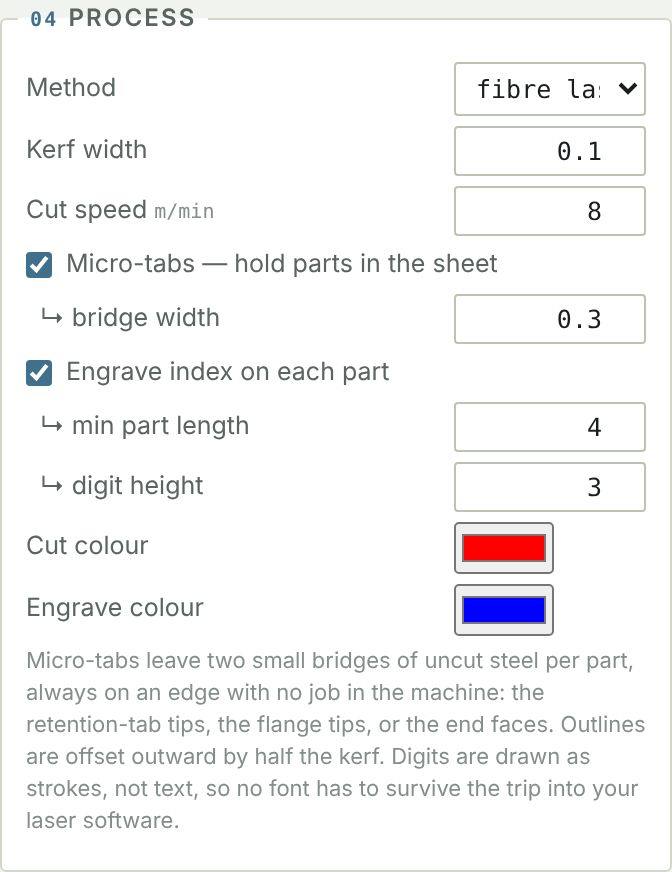
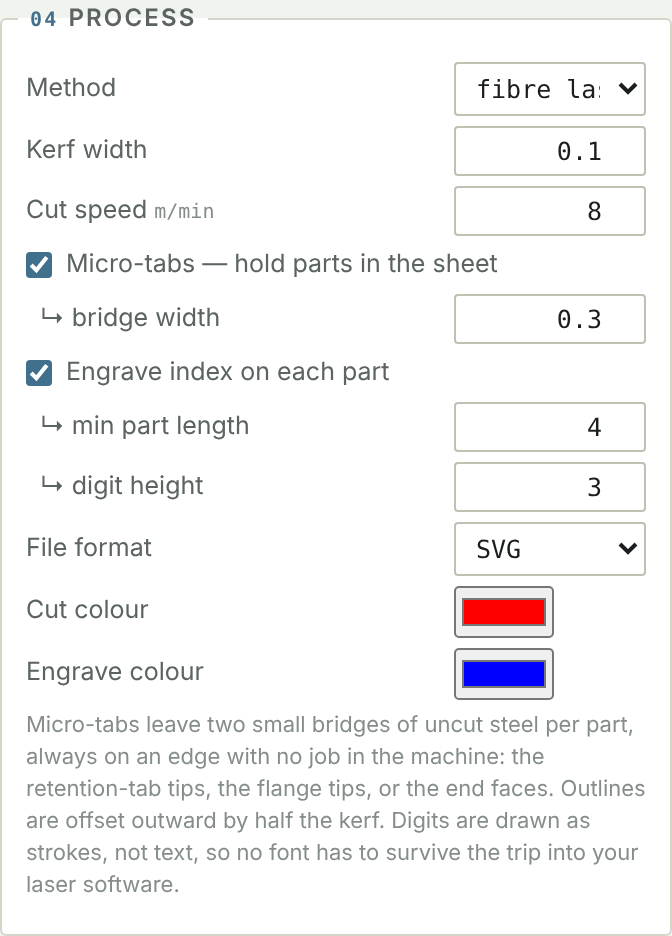
dxf option and share link option added

diff --git a/lamination-cutter/index.html b/lamination-cutter/index.html
@@ -281,9 +281,11 @@ table.parts tr:nth-child(even) td{background:var(--sunk)}
       <select id="fileSel"></select>
       <span class="meta" id="meta"></span>
       <span class="spacer"></span>
+      <button type="button" class="act" id="btnShare" title="Copy a link that opens the tool with these settings">Share link</button>
       <button type="button" class="act" id="btnCsv">Parts list</button>
       <button type="button" class="act" id="btnAll" hidden>All · zip</button>
       <button type="button" class="act" id="btnFrame" hidden>Frame · zip</button>
+      <button type="button" class="act" id="btnDxf">Download DXF</button>
       <button type="button" class="act pri" id="btnSave">Download SVG</button>
     </div>
     <div class="scroll"><table class="parts" id="ptable"></table></div>
@@ -624,6 +626,81 @@ ${eng.map(s=>'    '+s).join('\n')}
 </svg>
 `;
 }
+/* ---- laser DXF: the same outlines as the SVG, fillets as true arcs (polyline bulges),
+        micro-tab gaps as breaks, digits as lines. Y is flipped so the DXF reads y-up. ---- */
+function dxfRuns(pts,r,edges,gap){
+  const n=pts.length, C=[];
+  for(let i=0;i<n;i++){
+    const p0=pts[(i-1+n)%n], p1=pts[i], p2=pts[(i+1)%n];
+    let ux=p1[0]-p0[0], uy=p1[1]-p0[1]; const lu=Math.hypot(ux,uy)||1; ux/=lu; uy/=lu;
+    let vx=p2[0]-p1[0], vy=p2[1]-p1[1]; const lv=Math.hypot(vx,vy)||1; vx/=lv; vy/=lv;
+    const cr=ux*vy-uy*vx, turn=Math.atan2(cr,ux*vx+uy*vy);
+    if(Math.abs(turn)<1e-6||r<=0){ C.push({S:p1,E:p1,b:0}); continue; }
+    let rr=r, d=rr*Math.tan(Math.abs(turn)/2);
+    const dmax=Math.min(lu,lv)*0.49;
+    if(d>dmax) d=dmax;
+    C.push({S:[p1[0]-ux*d,p1[1]-uy*d], E:[p1[0]+vx*d,p1[1]+vy*d], b:Math.sign(cr)*Math.tan(Math.abs(turn)/4)});
+  }
+  // vertex stream round the loop; a bulge belongs to the segment leaving its vertex
+  const V=[];
+  for(let i=0;i<n;i++){
+    const c=C[i], nx=C[(i+1)%n];
+    if(c.b) V.push({x:c.S[0],y:c.S[1],b:c.b});
+    V.push({x:c.E[0],y:c.E[1],b:0,edge:i,to:nx.S});
+  }
+  if(!edges.length) return [{closed:true,v:V.map(q=>[q.x,q.y,q.b])}];
+  // break the straight edges that carry a bridge
+  const W=[];
+  for(const q of V){
+    W.push({x:q.x,y:q.y,b:q.b});
+    if(q.edge!=null && edges.includes(q.edge)){
+      const L=Math.hypot(q.to[0]-q.x,q.to[1]-q.y);
+      if(L>=gap+0.2){ const ux=(q.to[0]-q.x)/L, uy=(q.to[1]-q.y)/L, m=L/2;
+        W.push({x:q.x+ux*(m-gap/2),y:q.y+uy*(m-gap/2),b:0,gapAfter:true});
+        W.push({x:q.x+ux*(m+gap/2),y:q.y+uy*(m+gap/2),b:0}); }
+    }
+  }
+  const g0=W.findIndex(q=>q.gapAfter);
+  if(g0<0) return [{closed:true,v:W.map(q=>[q.x,q.y,q.b])}];
+  const runs=[]; let cur=[];
+  for(let j=1;j<=W.length;j++){
+    const q=W[(g0+j)%W.length];
+    cur.push([q.x,q.y,q.b]);
+    if(q.gapAfter){ runs.push({closed:false,v:cur}); cur=[]; }
+  }
+  return runs;
+}
+function sheetDXF(p,sheet){
+  const L=[], w=(c,v)=>L.push(String(c),String(v)), H=sheet.h;
+  const layers=[['CUT',1],['ENGRAVE',5]];
+  w(0,'SECTION');w(2,'HEADER');w(9,'$ACADVER');w(1,'AC1009');w(9,'$INSUNITS');w(70,4);
+  w(9,'$EXTMIN');w(10,0);w(20,0);w(30,0);w(9,'$EXTMAX');w(10,sheet.w);w(20,H);w(30,0);w(0,'ENDSEC');
+  w(0,'SECTION');w(2,'TABLES');w(0,'TABLE');w(2,'LAYER');w(70,layers.length);
+  for(const [n,c] of layers){w(0,'LAYER');w(2,n);w(70,0);w(62,c);w(6,'CONTINUOUS');}
+  w(0,'ENDTAB');w(0,'ENDSEC');
+  w(0,'SECTION');w(2,'ENTITIES');
+  const poly=(run,l)=>{ w(0,'POLYLINE');w(8,l);w(66,1);w(10,0);w(20,0);w(30,0);w(70,run.closed?1:0);
+    for(const [x,y,b] of run.v){ w(0,'VERTEX');w(8,l);w(10,fmt(x));w(20,fmt(y));w(30,0); if(b) w(42,b.toFixed(6)); }
+    w(0,'SEQEND');w(8,l); };
+  for(const q of sheet.parts){
+    const r=Math.min(p.partR,q.pw/2,q.ph/2);
+    // flip to y-up; reversing the order keeps the outline counter-clockwise
+    const pts=partPts(q,p.kerf).map(([a,b])=>[a+q.px, H-(b+q.py)]).reverse();
+    const n=pts.length, eds=p.mtOn ? bridgeEdges(q).map(i=>(2*n-2-i)%n) : [];
+    for(const run of dxfRuns(pts,r,eds,p.mtW+p.kerf)) poly(run,'CUT');
+    if(p.eng && q.wBody>=p.engMin){
+      const d=digits((q.kind==='S'?'S':'')+q.idx, p.engH), ox=q.px+(q.pw-d.w)/2, oy=q.py+(q.ph-p.engH)/2;
+      for(const m of d.d.matchAll(/M([-\d.]+) ([-\d.]+)L([-\d.]+) ([-\d.]+)/g)){
+        w(0,'LINE');w(8,'ENGRAVE');
+        w(10,fmt(ox+ +m[1]));w(20,fmt(H-(oy+ +m[2])));w(30,0);
+        w(11,fmt(ox+ +m[3]));w(21,fmt(H-(oy+ +m[4])));w(31,0);
+      }
+    }
+  }
+  w(0,'ENDSEC');w(0,'EOF');
+  return L.join('\n')+'\n';
+}
+
 function partsCSV(p,g){
   const rows=[['kind','index','width_mm','body_width_mm','height_mm','qty_per_tooth','qty_total','r_from_mm','r_to_mm','width_err_mm']];
   for(const q of g.parts) rows.push([q.kind==='S'?'shoe':'body',q.idx,q.w.toFixed(3),q.wBody.toFixed(3),q.h.toFixed(3),
@@ -1045,8 +1122,9 @@ function run(){
   $('retBox').hidden=!retUI; $('retOff').hidden=retUI;
 
   const g=build(p), nst=nest(p,g), F=frameGeom(p,g);
-  const files=nst.sheets.map((s,i)=>({name:`laminations_sheet${String(i+1).padStart(2,'0')}.svg`,
-                                      text:sheetSVG(p,s,i,nst.sheets.length)}));
+  const files=[];
+  nst.sheets.forEach((s,i)=>{ const base=`laminations_sheet${String(i+1).padStart(2,'0')}`;
+    files.push({name:base+'.svg',text:sheetSVG(p,s,i,nst.sheets.length)}); });
   const frameFiles=F?[{name:'frame_half.svg',text:frameSVG(p,F)},
                       {name:'frame_half.dxf',text:frameDXF(p,F)},
                       {name:'frame_half.scad',text:frameSCAD(p,F)}]:[];
@@ -1067,7 +1145,7 @@ function run(){
   $('tabEdmB').hidden=!(edm&&VIEW==='edm'&&E.blocks.length>1);
   if(edm && (VIEW==='parts'||VIEW==='sheet')) setView('edm');
   if(!edm && VIEW==='edm') setView('3d');
-  $('btnCsv').hidden=edm; $('btnSave').textContent=edm?'Download':'Download SVG';
+  $('btnCsv').hidden=edm; $('btnDxf').hidden=edm; $('btnSave').textContent=edm?'Download':'Download SVG';
   $('rowWeb').hidden=!(edm&&!E.blocks[0].shared);
   if(E){ const B=E.blocks[0];
     $('edmOut').innerHTML=`flanks lean <b>±${Math.abs(B.cuts[0].taper).toFixed(2)}°</b> · kerf ${B.kerf.toFixed(3)} mm<br>`+
@@ -1507,7 +1585,8 @@ function drawParts(w,h){
 function drawSheet(w,h){
   const {p,nst}=STATE;
   if(!nst.sheets.length){ lab(14,22,'No parts to nest.','#8d9aa4'); return; }
-  const i=Math.min(+$('fileSel').value||0,nst.sheets.length-1);
+  const fsel=STATE.files[+$('fileSel').value||0], mm=fsel&&fsel.name.match(/sheet(\d+)/);
+  const i=Math.min(mm?+mm[1]-1:0,nst.sheets.length-1);
   const sheet=nst.sheets[i];
   const SW=sheet.w||p.shW, SH=sheet.h||p.shH;
   const s0=Math.min((w-28)/SW,(h-56)/SH), s=s0*ZZ().k;
@@ -1820,9 +1899,21 @@ $('btnSave').onclick=()=>{
   if(!STATE.files.length) return flash($('btnSave'),'No parts');
   deliver([STATE.files[Math.min(Math.max(0,+$('fileSel').value||0),STATE.files.length-1)]],'',$('btnSave'));
 };
+// DXF of the sheet chosen in the Output bar: same outlines as the SVG
+const sheetIdx=()=>{ const f=STATE.files[+$('fileSel').value||0], m=f&&f.name.match(/sheet(\d+)/); return m?+m[1]-1:0; };
+$('btnDxf').onclick=()=>{
+  if(!STATE||STATE.E) return;
+  if(!STATE.nst.sheets.length) return flash($('btnDxf'),'No parts');
+  const i=Math.min(sheetIdx(),STATE.nst.sheets.length-1);
+  deliver([{name:`laminations_sheet${String(i+1).padStart(2,'0')}.dxf`,text:sheetDXF(STATE.p,STATE.nst.sheets[i])}],'',$('btnDxf'));
+};
 $('btnAll').onclick=()=>{
   if(!STATE||!STATE.files.length) return;
-  deliver(STATE.files,STATE.E?'edm_block.zip':'laminations_svg.zip',$('btnAll'));
+  if(STATE.E) return deliver(STATE.files,'edm_block.zip',$('btnAll'));
+  // laser: every sheet as SVG and DXF
+  const all=[];
+  STATE.files.forEach((f,i)=>{ all.push(f, {name:f.name.replace(/\.svg$/,'.dxf'), text:sheetDXF(STATE.p,STATE.nst.sheets[i])}); });
+  deliver(all,'laminations.zip',$('btnAll'));
 };
 $('btnFrame').onclick=()=>{
   if(!STATE||!STATE.frameFiles.length) return flash($('btnFrame'),'Frame off');
@@ -1835,6 +1926,38 @@ $('form').addEventListener('input',()=>{clearTimeout(pend);pend=setTimeout(run,1
 $('form').addEventListener('change',run);
 $('form').addEventListener('submit',e=>e.preventDefault());
 matchMedia('(prefers-color-scheme:dark)').addEventListener?.('change',draw);
+/* ---- settings in the link: ?rOut=39&rIn=25… (or after #) fill the form on load,
+        and Share link writes every field that differs from its default ---- */
+const PAGES='https://odtu.github.io/axial-flux-coil-winder/lamination-cutter/';
+function fields(){ return [...$('form').querySelectorAll('input[id],select[id]')]; }
+function applyLinkParams(){
+  let q;
+  try{ q=new URLSearchParams((location.search||'').replace(/^\?/,'')+'&'+(location.hash||'').replace(/^#/,'')); }catch(e){ return; }
+  for(const [k,v] of q){
+    const el=document.getElementById(k);
+    if(!el || !$('form').contains(el)) continue;
+    if(el.type==='checkbox') el.checked = /^(1|true|on|yes)$/i.test(v);
+    else el.value=v;
+  }
+}
+function shareURL(){
+  const q=new URLSearchParams();
+  for(const el of fields()){
+    if(el.type==='color') continue;
+    if(el.type==='checkbox'){ if(el.checked!==el.defaultChecked) q.set(el.id,el.checked?1:0); continue; }
+    const def = el.tagName==='SELECT' ? ([...el.options].find(o=>o.defaultSelected)||el.options[0]).value : el.defaultValue;
+    if(String(el.value)!==String(def)) q.set(el.id,el.value);
+  }
+  const here=/github\.io$/.test(location.hostname) ? location.origin+location.pathname : PAGES;
+  const s=q.toString();
+  return here+(s?'?'+s:'');
+}
+$('btnShare').onclick=async()=>{
+  const u=shareURL();
+  try{ await navigator.clipboard.writeText(u); flash($('btnShare'),'Link copied'); }
+  catch(e){ $('meta').textContent=u; flash($('btnShare'),'See link →'); }
+};
+applyLinkParams();
 fit(); run();
 </script>
 

diff --git a/lamination-cutter/docs/MANUAL.md b/lamination-cutter/docs/MANUAL.md
@@ -135,7 +135,7 @@ See [§7](#7-pole-shoes) for which form to choose.
 | **Engrave index on each part** | on | Stroke the class number onto each part |
 | ↳ **min part length** | 4 mm | Parts narrower than this are not engraved |
 | ↳ **digit height** | 3 mm | Height of the seven-segment digits |
-| **Cut / Engrave colour** | red / blue | Stroke colours, for mapping to laser layers |
+| **Cut / Engrave colour** | red / blue | Stroke colours, for mapping to laser layers (SVG) |
 
 ### 05 — Sheet
 
@@ -433,6 +433,8 @@ On this small stator the inner bolt heads sit only 2.7 mm from the tooth, inside
 
 ## 10. Output files
 
+**Share link** copies a link that opens the tool with your current settings. Only fields that differ from their defaults go into the link, for example `…/lamination-cutter/?rOut=39&rIn=25&wMode=widths&wIn=6.875&wOut=14.378&h=25`. Any field id from the form works as a parameter, and checkboxes take `1` or `0`.
+
 For the wire EDM files, see [§13](#edm-files).
 
 ### Laminations: `laminations_sheetNN.svg`
@@ -442,7 +444,19 @@ For the wire EDM files, see [§13](#edm-files).
 - Plain rectangles are written as `<rect>` with `rx` for the corner radius. Shaped parts, and every part when micro-tabs are on, are written as `<path>` with arcs.
 - The `<desc>` element records the stator, sheet, kerf, tabs and how many times to run the file.
 
-**Download SVG** saves the file chosen in the dropdown. **All · zip** appears when there is more than one file.
+**Download SVG** saves the sheet chosen in the dropdown, and **Download DXF** next to it saves the same sheet as DXF. **All · zip** appears when there is more than one sheet, and holds every sheet in both formats.
+
+### Laminations: `laminations_sheetNN.dxf`
+
+**Download DXF**, next to Download SVG, saves the same geometry as the SVG:
+
+- R12 (`AC1009`), millimetres, y up, with the sheet's bottom-left corner at the origin.
+- Layer `CUT` (red) holds one polyline per part outline. The corner fillets are true arcs, stored as polyline bulges, so nothing is faceted.
+- With micro-tabs on, each outline is broken at its bridges into open polylines. The gaps sit exactly where they are in the SVG.
+- Layer `ENGRAVE` (blue) holds the index digits as plain lines.
+- Kerf compensation is already applied, as in the SVG. Set the laser software's own offset to 0.
+
+If your software turns bulges into straight chords, check that it imports arcs in R12 polylines; most fibre-laser packages do.
 
 ### Parts list: `parts_list.csv`
 

diff --git a/lamination-cutter/README.md b/lamination-cutter/README.md
@@ -87,9 +87,12 @@ Set **Method** to *wire EDM* in panel 04. Strips as wide as the tooth height are
 
 ## Output
 
+**Share link** copies a link that opens the tool with your settings, ready to forward.
+
 | File | Contents |
 |---|---|
 | `laminations_sheet01.svg` | Cut (red) and engrave (blue) layers, in mm. One tooth by default |
+| `laminations_sheet01.dxf` | The same outlines as R12 DXF: fillets as true arcs, layers `CUT` and `ENGRAVE`. Use the **Download DXF** button
 | `parts_list.csv` | Every part type: widths, height, quantity per tooth and per stator, radial span, flank error |
 | `edm_*.dxf`, `edm_*_drawing.svg`, `edm_*_cuts.csv` | Wire EDM only: bottom and top wire paths, the operator drawing, and the cut table |
 | `retention_frame.zip` | `frame_half.scad`, `frame_half.dxf`, `frame_half.svg`: one frame half, to be printed twice |
